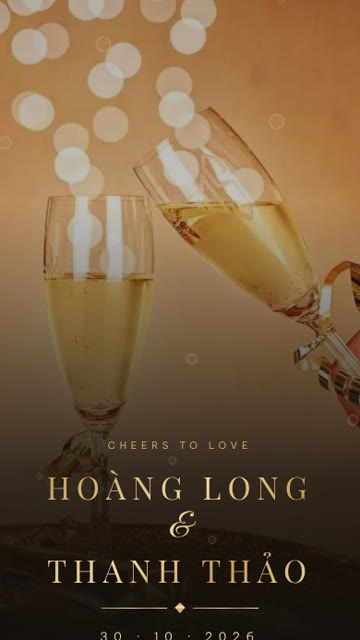
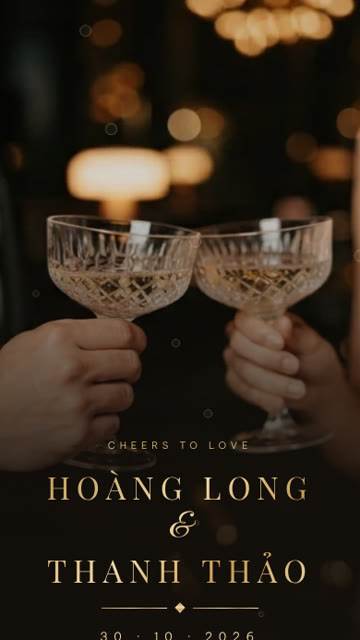
Mẫu 10 (Champagne): ảnh cưới do chủ repo tạo bằng Gemini (màn mở đầu: cận hai ly cụng nhau; ảnh chính: dâu rể cụng ly; gallery 4 ảnh)
Claude-Session: https://claude.ai/code/session_01V4RDDV9jqM6BBijw6Ese9L

diff --git a/my-wed/src/templates/t22/demo-data.ts b/my-wed/src/templates/t22/demo-data.ts
@@ -1,4 +1,9 @@
-import { WeddingData } from "@/core/types";
+import album1 from "@/static/t22/demo/album1.webp";
+import album2 from "@/static/t22/demo/album2.webp";
+import album3 from "@/static/t22/demo/album3.webp";
+import album4 from "@/static/t22/demo/album4.webp";
+import destiny from "@/static/t22/demo/destiny.webp";
+import { PhotoSlot, WeddingData } from "@/core/types";
 import { demoData as base } from "@/templates/t01/demo-data";
 
 export const demoData: WeddingData = {
@@ -11,4 +16,15 @@ export const demoData: WeddingData = {
   venueQuery: "Cộng Hòa Tân Bình",
   dressColors: ["#14100b", "#d9b77a", "#f3e6cc", "#6b5434"],
   music: "yeu-em-hon-moi-ngay",
+  // AI photos (Gemini, made by the owner): an art-deco lounge at night, black velvet tuxedo, gold sequin gown
+  photos: {
+    ...base.photos,
+    destiny: { key: "destiny", label: "Ảnh dọc", ratio: "3/4", src: destiny },
+  } as Record<string, PhotoSlot>,
+  album: [
+    { key: "album1", label: "Ảnh album 1", ratio: "3/4", src: album1 },
+    { key: "album2", label: "Ảnh album 2", ratio: "3/4", src: album2 },
+    { key: "album3", label: "Ảnh album 3", ratio: "3/4", src: album3 },
+    { key: "album4", label: "Ảnh album 4", ratio: "3/4", src: album4 },
+  ] as PhotoSlot[],
 };

diff --git a/my-wed/src/templates/t22/index.tsx b/my-wed/src/templates/t22/index.tsx
@@ -4,7 +4,7 @@ import "@/templates/_kit/kit.scss";
 import "@/templates/t22/styles.scss";
 import { WeddingData } from "@/core/types";
 import bokeh from "@/static/t22-gold-bokeh.webp";
-import champagne from "@/static/t22-champagne.webp";
+import champagne from "@/static/t22/toast.webp";
 import { Drifters, Reveal } from "@/templates/_kit/anim";
 import { dateParts } from "@/templates/_kit/date";
 import {

diff --git a/docs/CREDITS.md b/docs/CREDITS.md
@@ -153,3 +153,7 @@ Cảnh lối vào qua các vòm hoa `gate-arches.webp`, chùm bóng bay `balloon
 ## Mẫu 9 · Tiệc cưới lung linh: ảnh cưới mẫu (`my-wed/src/static/t19/demo/`)
 
 `couple.webp`, `album1-4.webp` và `../table.webp` (nền phần Save the date: bàn tiệc nến và hồng phấn): tiệc cưới tối ngoài vườn dưới dây đèn, **chủ repo tự tạo bằng Google Gemini**; cắt từ 3 ảnh ghép 2 khung.
+
+## Mẫu 10 · Champagne: ảnh cưới mẫu (`my-wed/src/static/t22/`)
+
+`demo/destiny.webp`, `demo/album1-4.webp` và `toast.webp` (nền màn mở đầu: cận hai ly champagne cụng nhau): sảnh art-deco ban đêm, tuxedo nhung đen, váy sequin vàng, **chủ repo tự tạo bằng Google Gemini**; cắt từ 3 ảnh ghép 2 khung.
